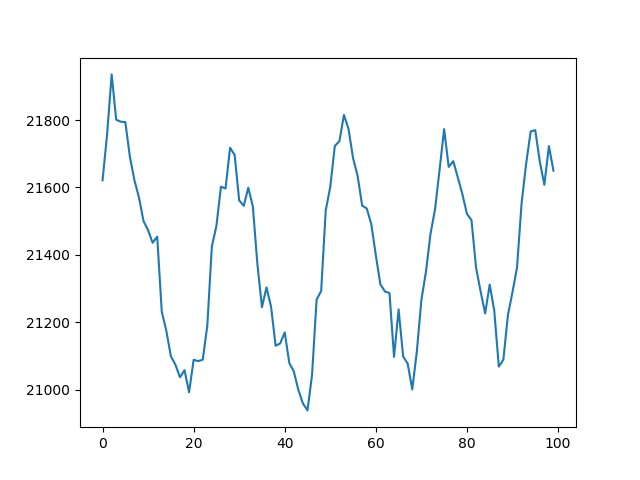
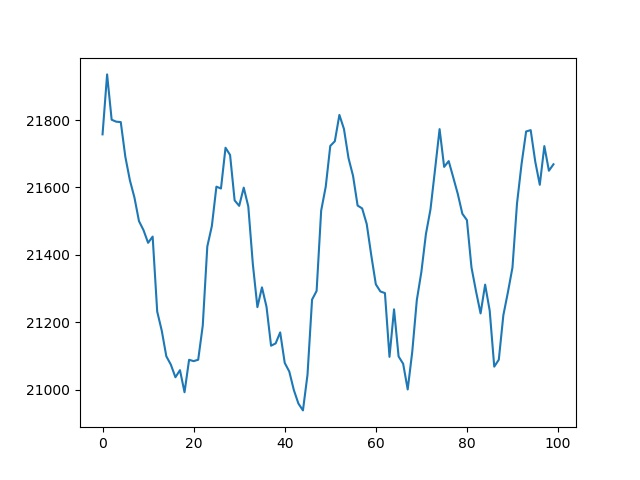
'auto'

Changed region(s): [[0.1562, 0.1562, 0.5938, 0.875], [0.5938, 0.25, 0.875, 0.8125]]

diff --git a/README.md b/README.md
@@ -1,5 +1,5 @@
 Frizider live: 5
-21649.649999999998 
+21668.775 
 0
 Temperatura:
 
